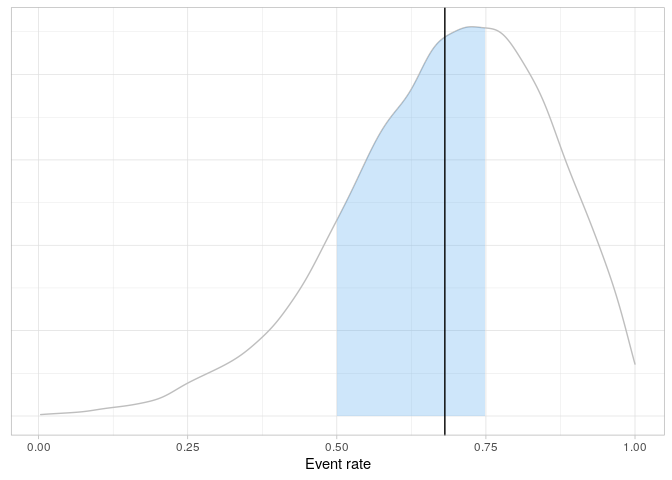
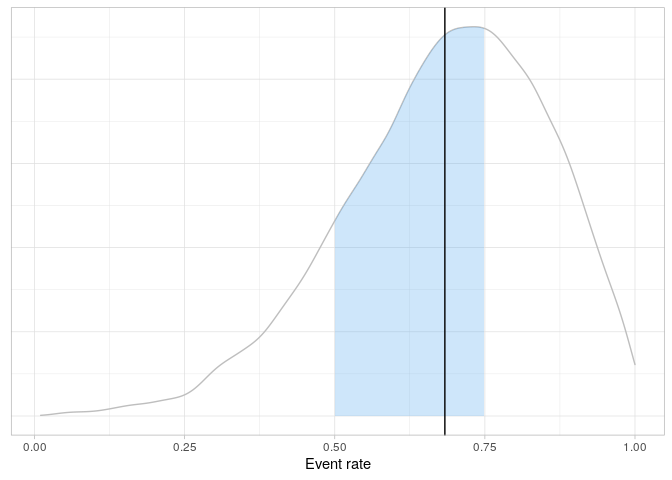
.

diff --git a/README.md b/README.md
@@ -241,11 +241,11 @@ quantiles
 #> # A tibble: 1 × 2
 #>     Q05   Q95
 #>   <dbl> <dbl>
-#> 1 0.367 0.933
+#> 1 0.377 0.932
 ```
 
 So, in this specific case, our QTLs translate to observed event rates of
-36.73% and 93.34% respectively.
+37.70% and 93.22% respectively.
 
 Do any sites have observed event rates outside this range?
 
@@ -304,10 +304,10 @@ Upper
 1.000
 </td>
 <td style="text-align:right;">
-0.367
+0.377
 </td>
 <td style="text-align:right;">
-0.933
+0.932
 </td>
 </tr>
 <tr>
@@ -324,10 +324,10 @@ Upper
 0.357
 </td>
 <td style="text-align:right;">
-0.367
+0.377
 </td>
 <td style="text-align:right;">
-0.933
+0.932
 </td>
 </tr>
 </tbody>
@@ -373,7 +373,7 @@ fitted$tab %>%
 #> # A tibble: 1 × 1
 #>   PosteriorProb
 #>           <dbl>
-#> 1         0.468
+#> 1         0.471
 ```
 
 Again, the QTL is breached, and the process can be summarised
